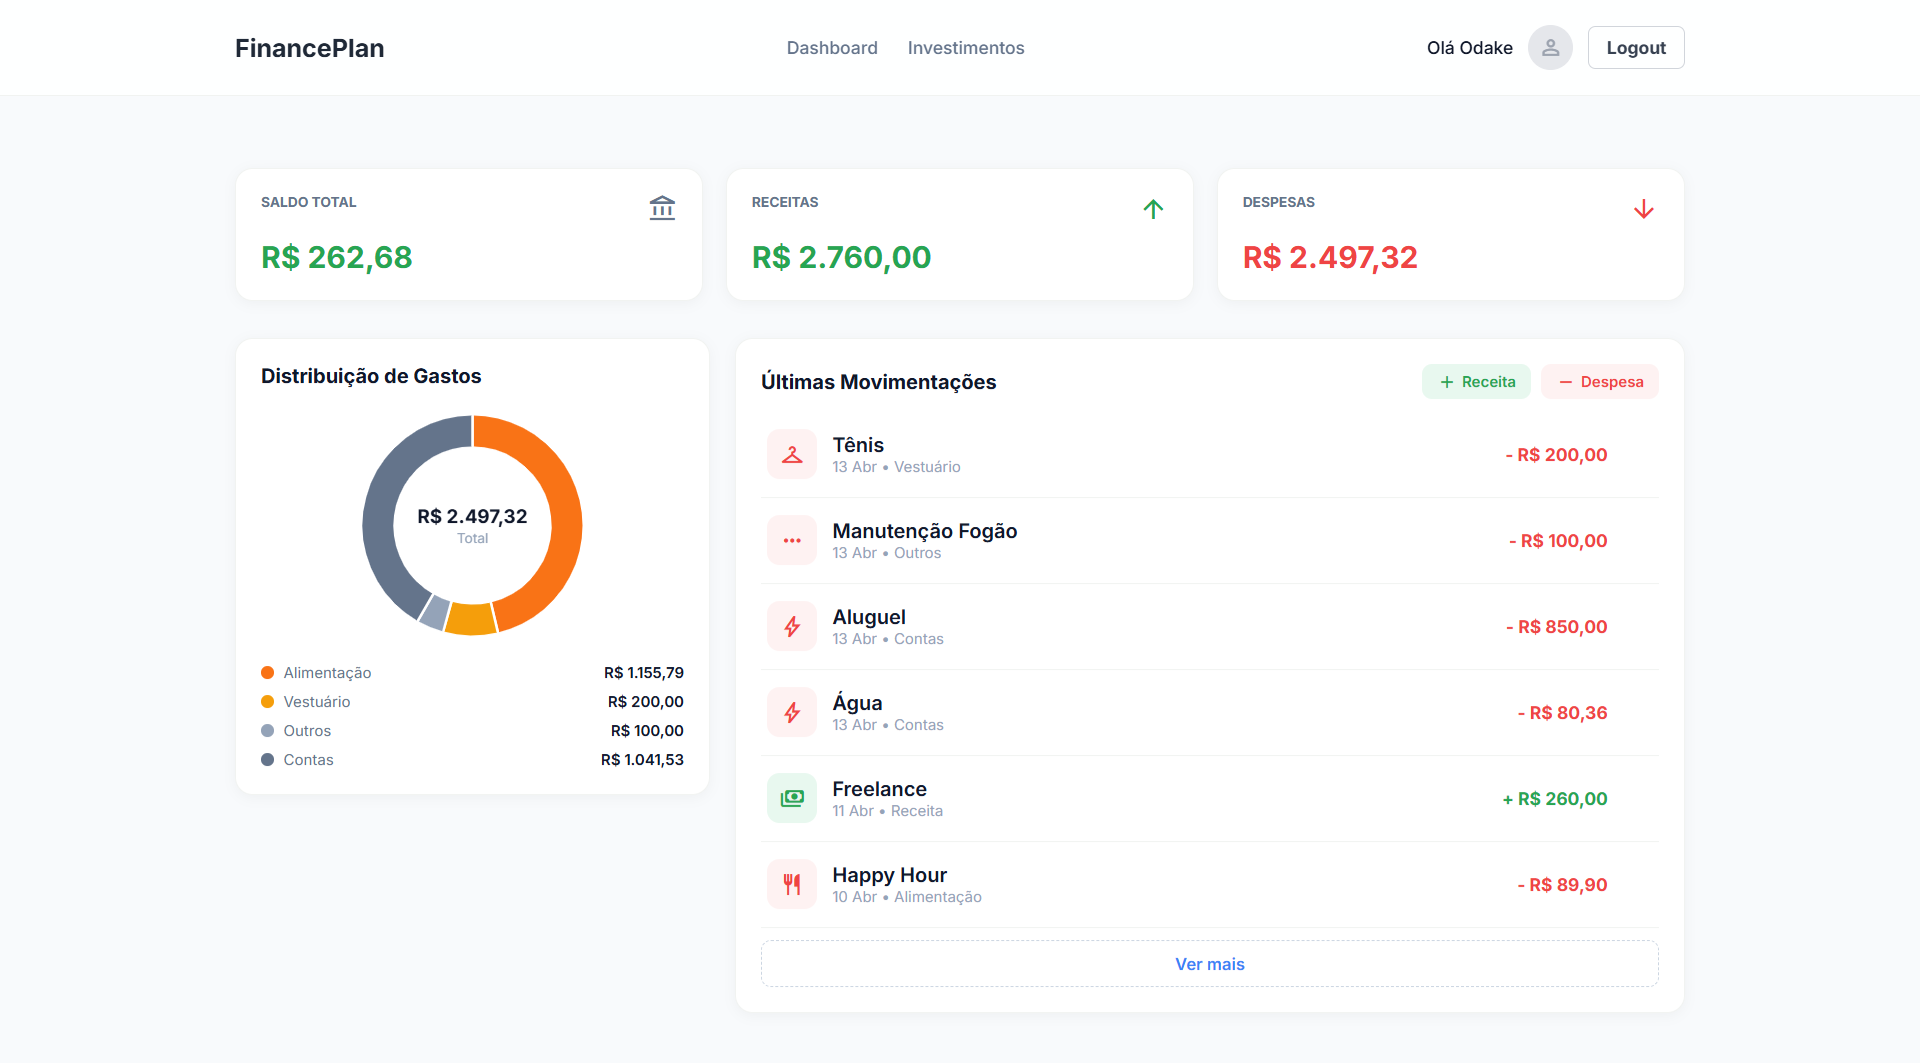
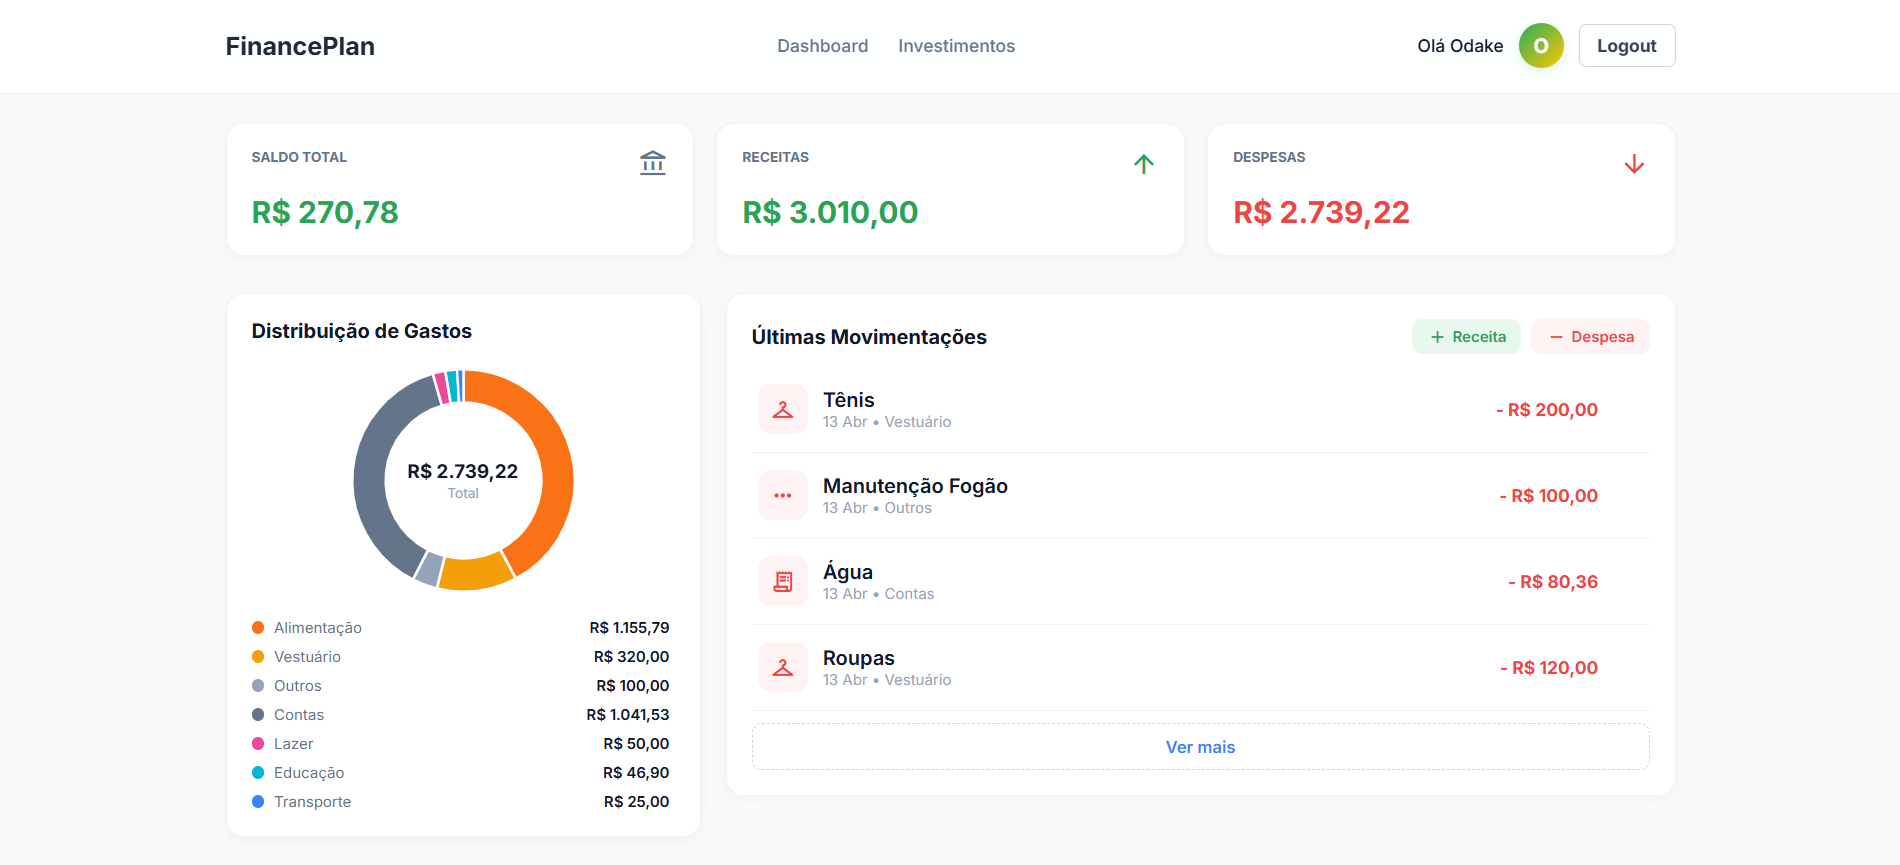
fix: de landing e dashboard ajustes

diff --git a/frontend/src/pages/Landing.jsx b/frontend/src/pages/Landing.jsx
@@ -30,9 +30,9 @@ function Landing() {
             </h1>
 
             <p>
-              Subtexto explicando os benefícios do FinancePlan para sua vida
-              financeira e como nossa plataforma ajuda você a atingir seus
-              objetivos de forma simples e eficiente.
+              Simule investimentos, gerencie despesas e acompanhe cotações em tempo real.
+              <strong> Aviso:</strong> Este é um projeto de portfólio pessoal, 
+              e não se trata de uma empresa ou serviço financeiro real.
             </p>
 
             <button 
@@ -61,8 +61,8 @@ function Landing() {
               lugar
             </h3>
             <p>
-              Texto explicando sobre nossos serviços de forma simplificada e
-              focada na experiência do usuário.
+              Explore uma interface moderna desenvolvida para demonstrar capacidades 
+              tecnológicas. Lembre-se: esta plataforma é um projeto educacional.
             </p>
           </div>
 
@@ -127,8 +127,8 @@ function Landing() {
           <div>
             <h4>FinancePlan</h4>
             <p>
-              A plataforma completa para você dominar suas finanças e construir
-              seu patrimônio com inteligência.
+              Projeto de portfólio desenvolvido para demonstração de habilidades 
+              em engenharia de software e design de interfaces. Não é uma empresa real.
             </p>
           </div>
 
@@ -154,7 +154,7 @@ function Landing() {
         </div>
 
         <div className="footer-bottom">
-          © 2026 FinancePlan | Pedro Odake | Todos os direitos reservados.
+          © 2026 FinancePlan | Pedro Odake | Todos os direitos reservados. | Projeto para Portfolio
         </div>
       </footer>
     </div>

diff --git a/frontend/src/pages/Dashboard.jsx b/frontend/src/pages/Dashboard.jsx
@@ -15,14 +15,11 @@ ChartJS.register(ArcElement, Tooltip, Legend);
 const CATEGORIA_ICONE = {
   "Alimentação": "restaurant",
   "Transporte": "directions_car",
-  "Moradia": "home",
   "Saúde": "health_and_safety",
   "Educação": "school",
   "Lazer": "sports_esports",
   "Vestuário": "checkroom",
-  "Contas": "bolt",
-  "Salário": "payments",
-  "Freelance": "work",
+  "Contas": "receipt_long",
   "Investimentos": "trending_up",
   "Outros": "more_horiz",
 };
@@ -31,14 +28,11 @@ const CATEGORIA_ICONE = {
 const CATEGORIA_CORES = {
   "Alimentação": "#f97316",
   "Transporte": "#3b82f6",
-  "Moradia": "#8b5cf6",
   "Saúde": "#ef4444",
   "Educação": "#06b6d4",
   "Lazer": "#ec4899",
   "Vestuário": "#f59e0b",
   "Contas": "#64748b",
-  "Salário": "#22c55e",
-  "Freelance": "#14b8a6",
   "Investimentos": "#6366f1",
   "Outros": "#94a3b8",
 };
@@ -467,7 +461,9 @@ function Dashboard() {
                     required
                   >
                     <option value="">Selecione...</option>
-                    {categorias.map((cat) => (
+                    {categorias
+                      .filter(cat => !["Moradia", "Salário", "Freelance"].includes(cat.nome_categoria))
+                      .map((cat) => (
                       <option key={cat.categoria_id} value={cat.categoria_id}>
                         {cat.nome_categoria}
                       </option>

diff --git a/frontend/src/css/Dashboard.css b/frontend/src/css/Dashboard.css
@@ -78,7 +78,7 @@
   display: grid;
   grid-template-columns: 1fr 2fr;
   gap: 20px;
-  align-items: stretch;
+  align-items: start;
 }
 
 .section-title {
@@ -141,6 +141,18 @@
   display: flex;
   flex-direction: column;
   gap: 8px;
+  max-height: 160px;
+  overflow-y: auto;
+  padding-right: 4px;
+}
+
+.chart-legend::-webkit-scrollbar {
+  width: 4px;
+}
+
+.chart-legend::-webkit-scrollbar-thumb {
+  background: #e2e8f0;
+  border-radius: 10px;
 }
 
 .legend-item {
